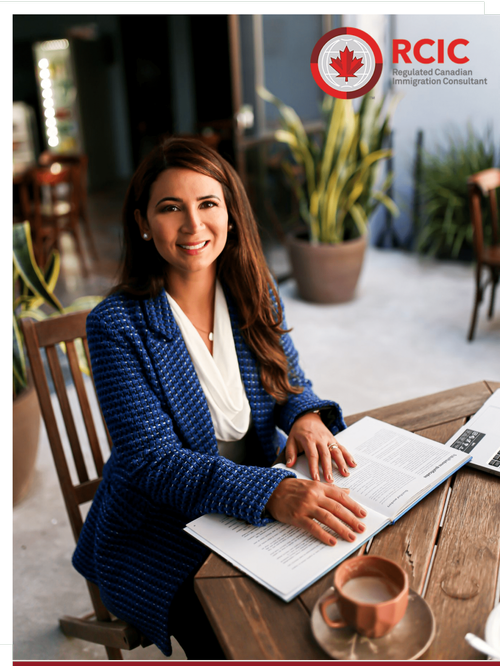
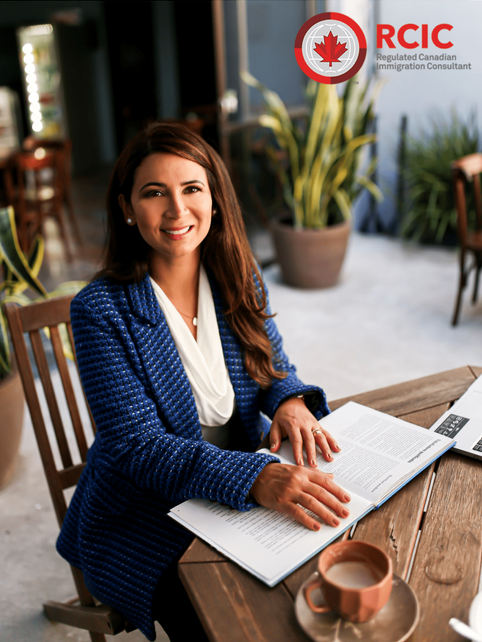
fix: fix stylings of contact for mobile

diff --git a/src/app/contact/_components/ConsultantInfo.tsx b/src/app/contact/_components/ConsultantInfo.tsx
@@ -2,7 +2,7 @@ import { Heading } from "@/components/common/text/Heading";
 import { OtherButton } from "@/components/common/text/OtherButton";
 import { SubHeading } from "@/components/common/text/SubHeading";
 import { Card } from "@/components/ui/card";
-import Consultant from "@/public/Consultant.png";
+import consultant from "@/public/consultant.png";
 import Image from "next/image";
 
 export function ConsultantInfo() {
@@ -11,8 +11,12 @@ export function ConsultantInfo() {
       <div className="xl:w-2/5">
         <Image
           alt="contact us"
-          src={Consultant}
-          className="rounded-md"
+          src={consultant}
+          layout="responsive"
+          objectFit="cover"
+          width={482}
+          height={642}
+          className="rounded-2xl w-full max-h-[350px] xl:max-h-[500px]"
         />
       </div>
       <div className="space-y-7 xl:ml-7 xl:w-3/5 xl:flex xl:flex-col xl:space-y-10">
